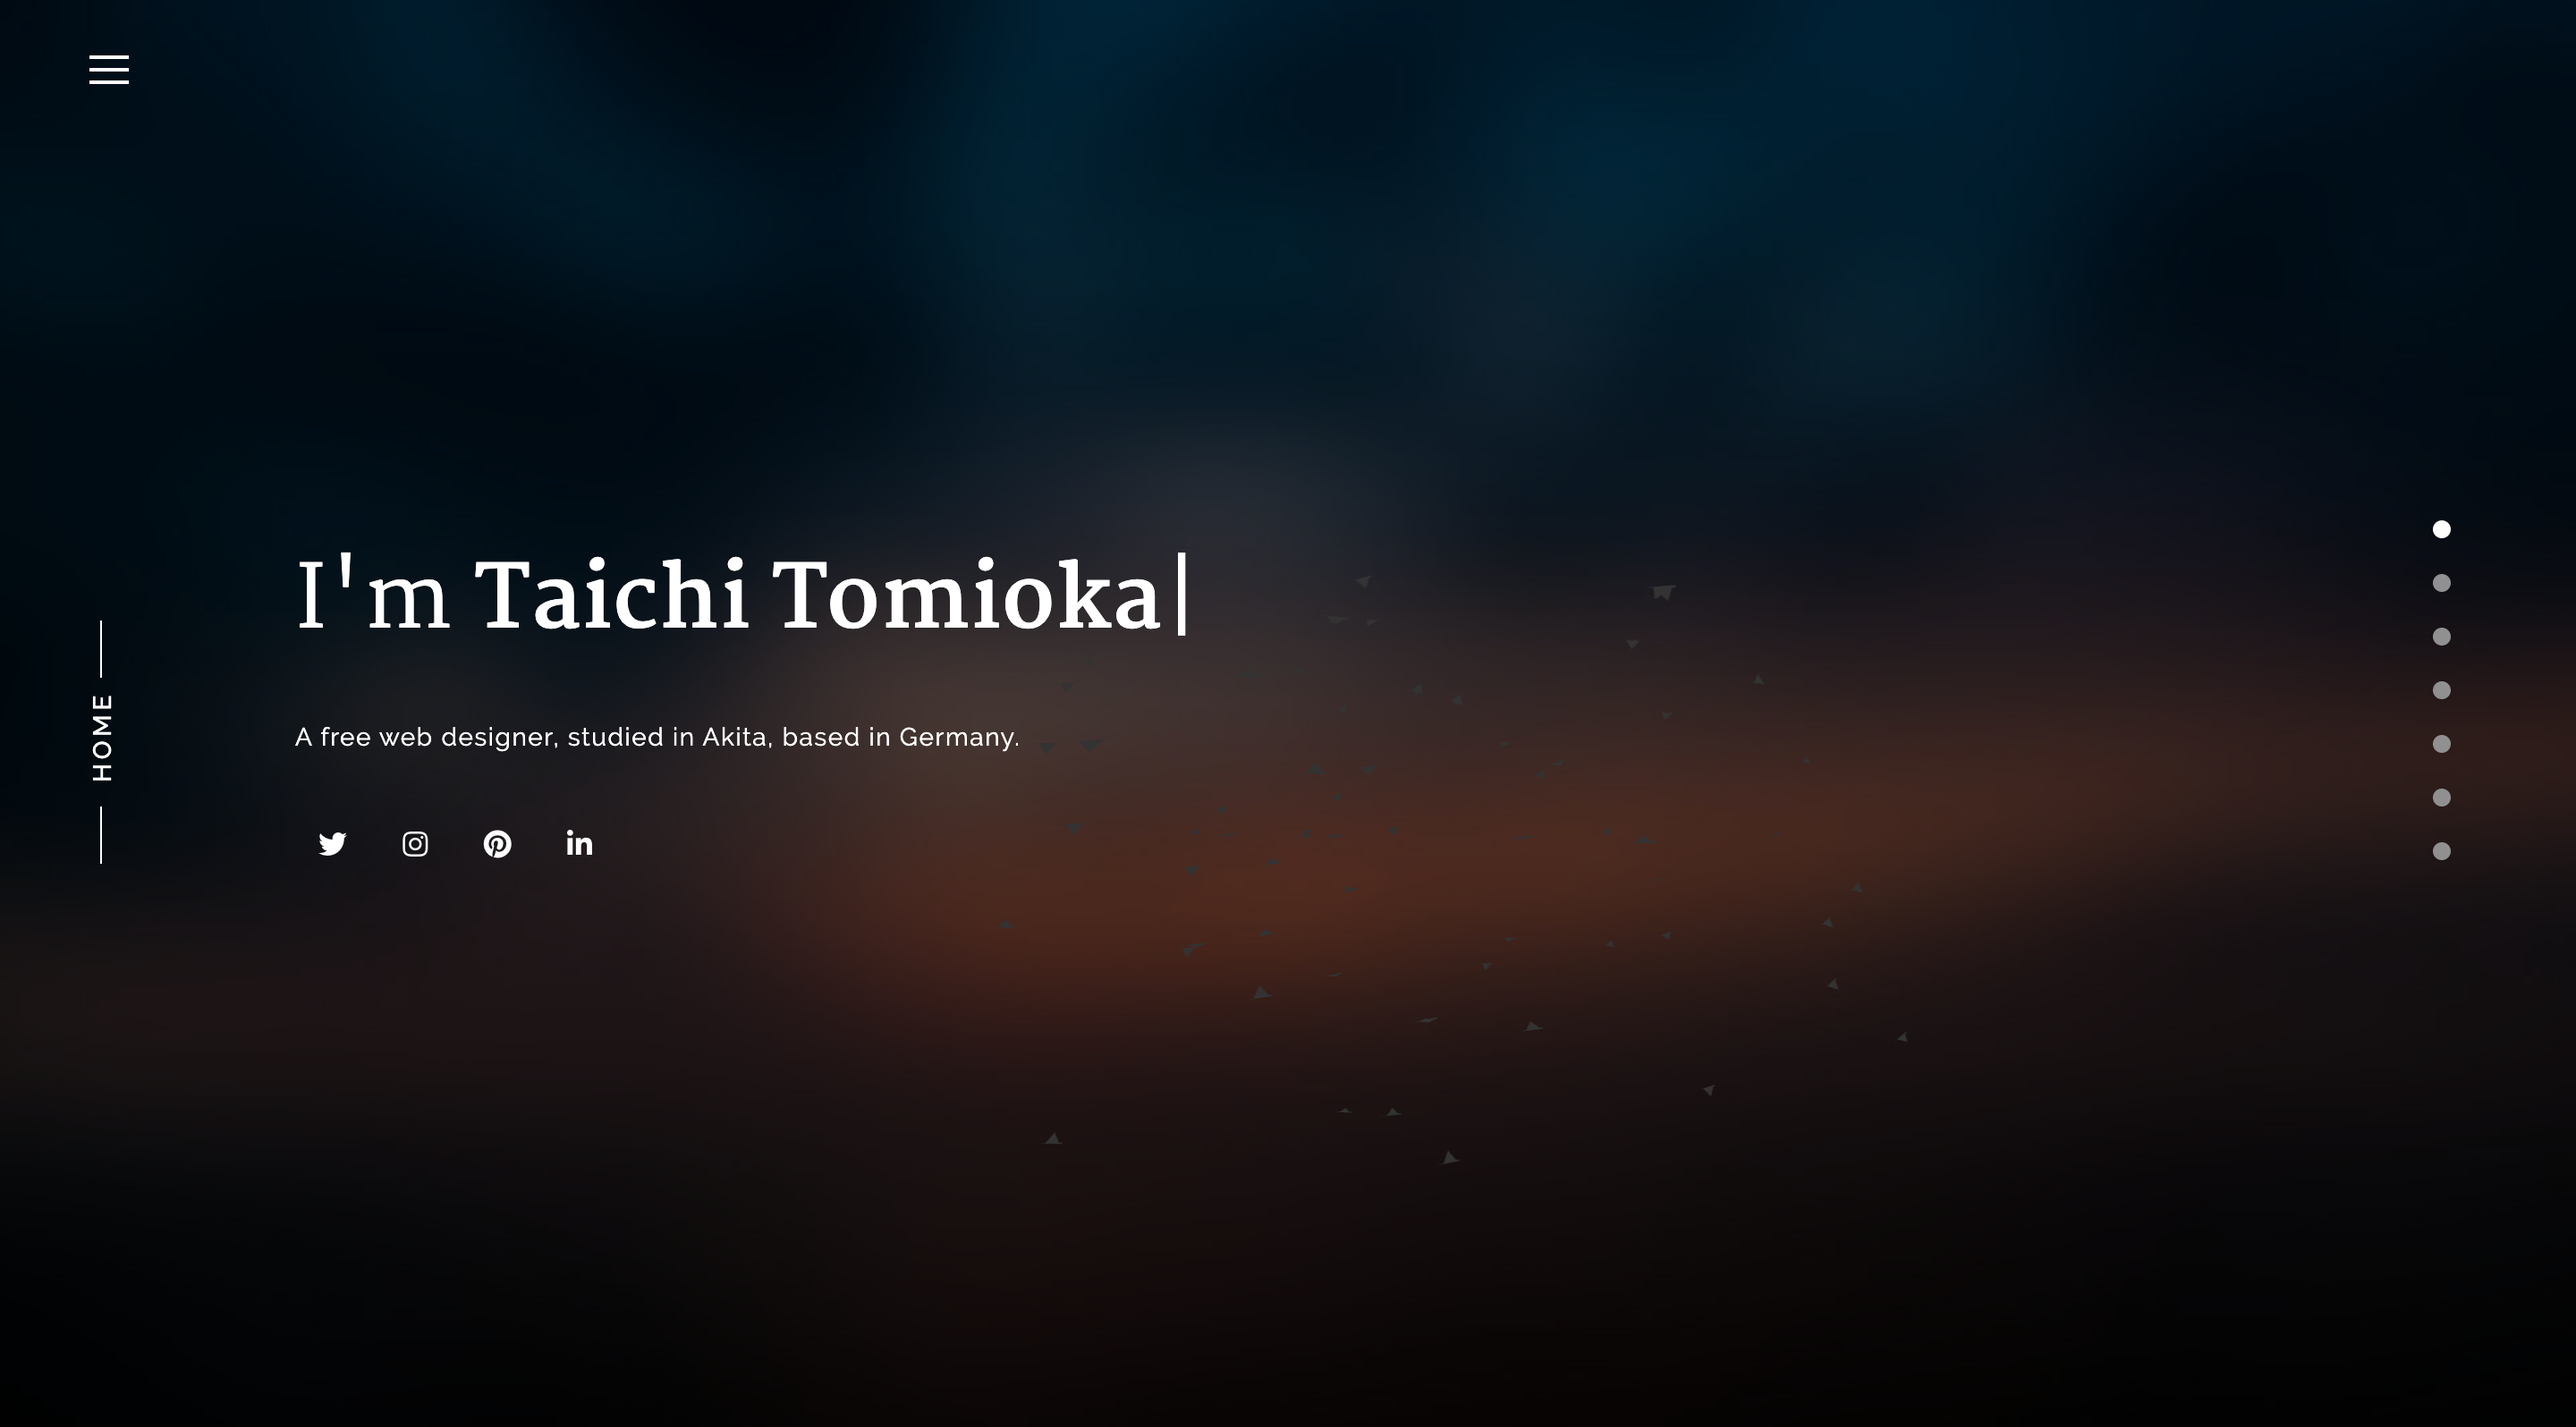
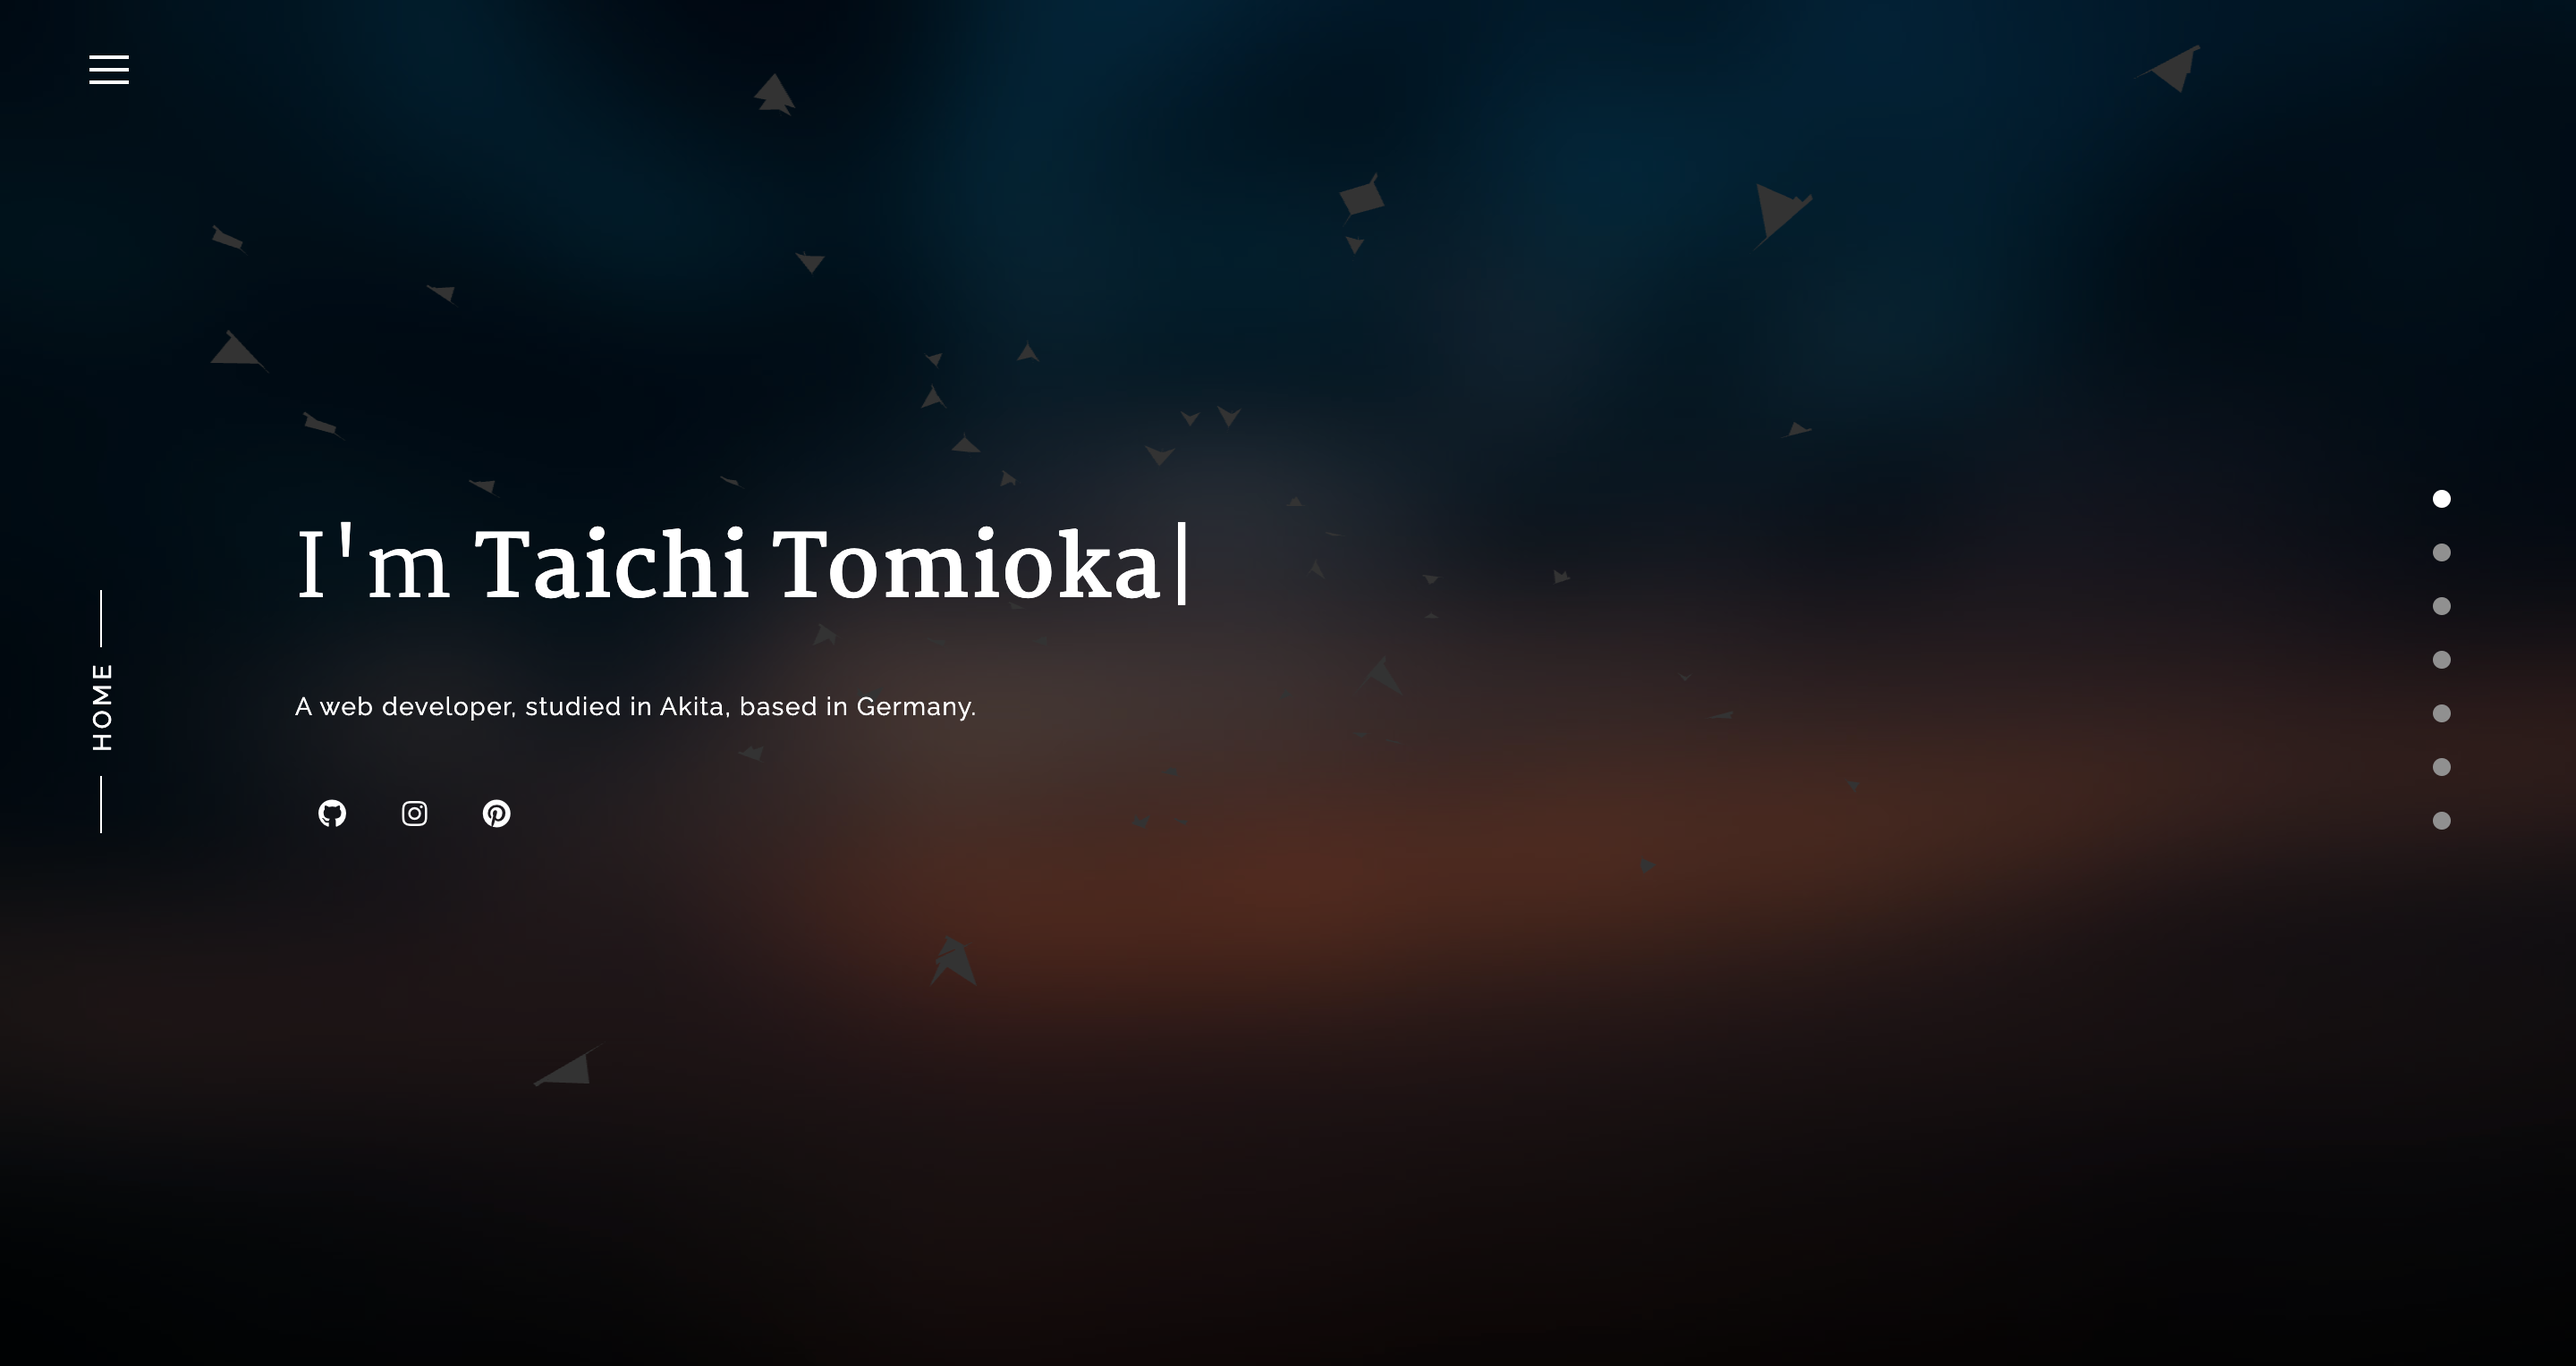
exchange photos

diff --git a/source/js/app-particle.js b/source/js/app-particle.js
@@ -1,0 +1,112 @@
+particlesJS('particles-js',
+{
+  "particles": {
+    "number": {
+      "value": 80,
+      "density": {
+        "enable": true,
+        "value_area": 800
+      }
+    },
+    "color": {
+      "value": "#ffffff"
+    },
+    "shape": {
+      "type": "circle",
+      "stroke": {
+        "width": 0,
+        "color": "#000000"
+      },
+      "polygon": {
+        "nb_sides": 5
+      },
+      "image": {
+        "src": "img/github.svg",
+        "width": 100,
+        "height": 100
+      }
+    },
+    "opacity": {
+      "value": 0.5,
+      "random": false,
+      "anim": {
+        "enable": false,
+        "speed": 1,
+        "opacity_min": 0.1,
+        "sync": false
+      }
+    },
+    "size": {
+      "value": 3,
+      "random": true,
+      "anim": {
+        "enable": false,
+        "speed": 40,
+        "size_min": 0.1,
+        "sync": false
+      }
+    },
+    "line_linked": {
+      "enable": true,
+      "distance": 150,
+      "color": "#ffffff",
+      "opacity": 0.4,
+      "width": 1
+    },
+    "move": {
+      "enable": true,
+      "speed": 6,
+      "direction": "none",
+      "random": false,
+      "straight": false,
+      "out_mode": "out",
+      "bounce": false,
+      "attract": {
+        "enable": false,
+        "rotateX": 600,
+        "rotateY": 1200
+      }
+    }
+  },
+  "interactivity": {
+    "detect_on": "canvas",
+    "events": {
+      "onhover": {
+        "enable": true,
+        "mode": "repulse"
+      },
+      "onclick": {
+        "enable": true,
+        "mode": "push"
+      },
+      "resize": true
+    },
+    "modes": {
+      "grab": {
+        "distance": 400,
+        "line_linked": {
+          "opacity": 1
+        }
+      },
+      "bubble": {
+        "distance": 400,
+        "size": 40,
+        "duration": 2,
+        "opacity": 8,
+        "speed": 3
+      },
+      "repulse": {
+        "distance": 200,
+        "duration": 0.4
+      },
+      "push": {
+        "particles_nb": 4
+      },
+      "remove": {
+        "particles_nb": 2
+      }
+    }
+  },
+  "retina_detect": true
+}
+);

diff --git a/source/js/main.js b/source/js/main.js
@@ -293,7 +293,7 @@
             direction: 'vertical',
             verticalCentered: true,
             sectionsColor: [],
-            anchors: ['welcome', 'about', 'service', 'resume', 'portfolio', 'work', 'blog', 'contact'],
+            anchors: ['welcome', 'about', 'service', 'resume', 'portfolio', 'work', 'contact'],
             scrollingSpeed: 700,
             easing: 'swing',
             loopBottom: true,
@@ -305,8 +305,8 @@
                 'position': 'right'
             },
             normalScrollElements: null,
-            normalScrollElementTouchThreshold: 6,
-            touchSensitivity: 6,
+            normalScrollElementTouchThreshold: 5,
+            touchSensitivity: 5,
             keyboardScrolling: true,
             sectionSelector: '.section',
             animateAnchor: true,
@@ -367,6 +367,33 @@
                 backgroundAlpha: 0.00
             })
 
+        }
+        if($(".vanta-bg").is(".fog")) {
+            VANTA.FOG({
+                el: "#welcome-vanta-area",
+                highlightColor: 0x9ec8e6,
+                midtoneColor: 0x979acf,
+                baseColor: 0x141414,
+                blurFactor: 0.61,
+                speed: 2.60
+            })
+        }
+
+        if($(".vanta-bg").is(".waves")) {
+            VANTA.WAVES({
+                el: "#welcome-vanta-area",
+                color: 0x19303e,
+                zoom: 1.22
+            })
+        }
+
+        if($(".vanta-bg").is(".cloud")) {
+            VANTA.CLOUDS({
+                el: "#welcome-vanta-area",
+                skyColor: 0x1a1d34,
+                cloudColor: 0x5e697a,
+                cloudShadowColor: 0xb1020
+            })
         }
 
     });
